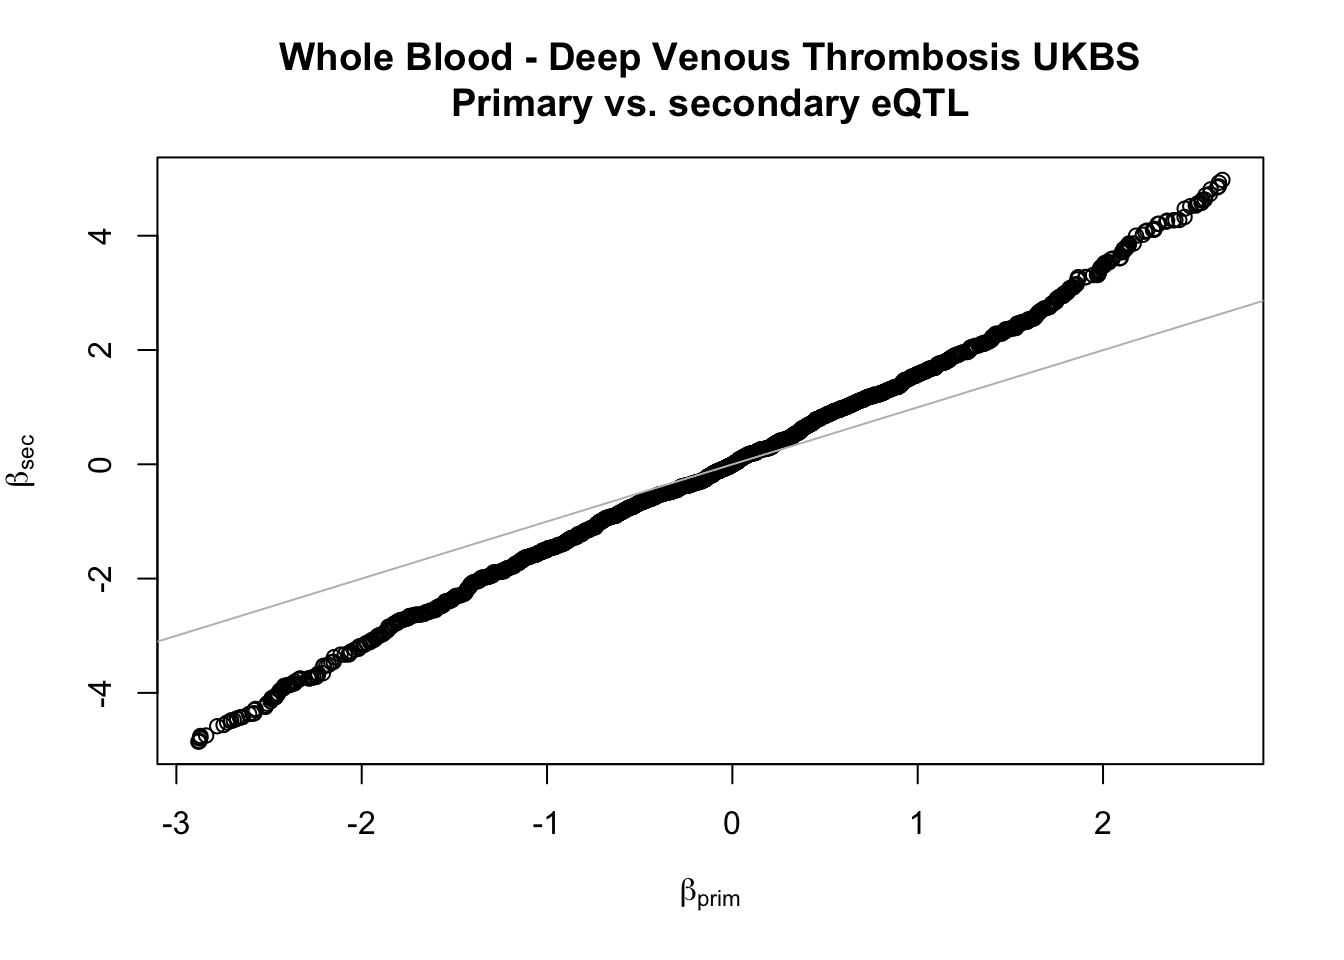
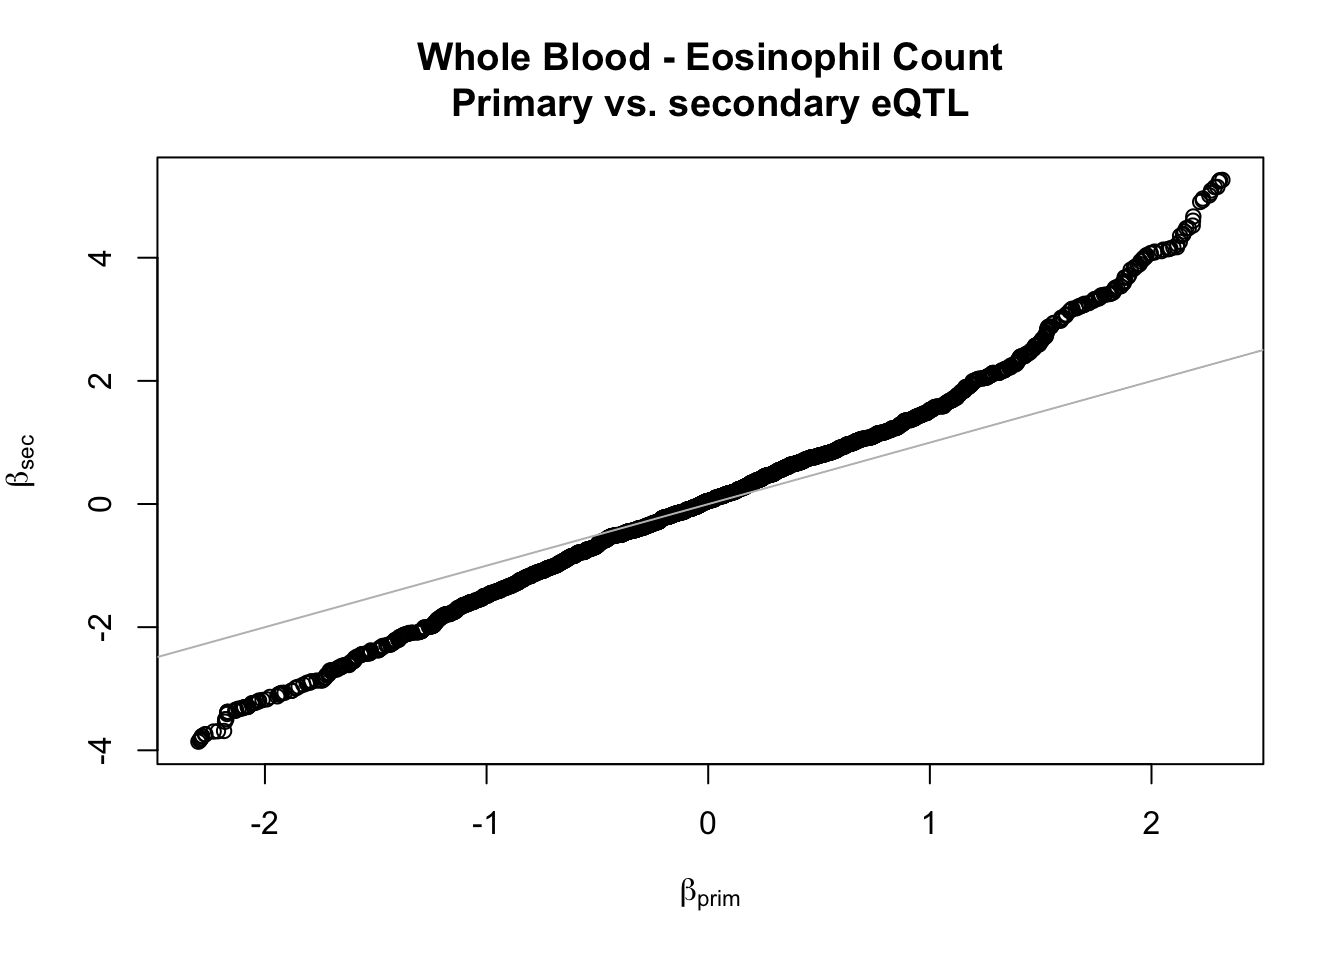
Build site.

diff --git a/docs/pvs_analysis.html b/docs/pvs_analysis.html
@@ -542,10 +542,10 @@ environment
 <div class="panel panel-default">
 <div class="panel-heading">
 <p class="panel-title">
-<a data-toggle="collapse" data-parent="#workflowr-checks" href="#strongRepositoryversionstrongahrefhttpsgithubcomzjiang2betaprimvssecanalysistree2ebde8a30cfa4c3a4bb2cfe557a1878a554d4a6ctargetblank2ebde8aa"> <span class="glyphicon glyphicon-ok text-success" aria-hidden="true"></span> <strong>Repository version:</strong> <a href="https://github.com/zjiang2/beta_prim_vs_sec_analysis/tree/2ebde8a30cfa4c3a4bb2cfe557a1878a554d4a6c" target="_blank">2ebde8a</a> </a>
+<a data-toggle="collapse" data-parent="#workflowr-checks" href="#strongRepositoryversionstrongahrefhttpsgithubcomzjiang2betaprimvssecanalysistreec9f1dcc3563639f80bb073b5a18dfe8493c8dafftargetblankc9f1dcca"> <span class="glyphicon glyphicon-ok text-success" aria-hidden="true"></span> <strong>Repository version:</strong> <a href="https://github.com/zjiang2/beta_prim_vs_sec_analysis/tree/c9f1dcc3563639f80bb073b5a18dfe8493c8daff" target="_blank">c9f1dcc</a> </a>
 </p>
 </div>
[2 lines of base64/hex data omitted]
 <div class="panel-body">
 <p>
 Great! You are using Git for version control. Tracking code development and connecting the code version to the results is critical for reproducibility. The version displayed above was the version of the Git repository at the time these results were generated. <br><br> Note that you need to be careful to ensure that all relevant files for the analysis have been committed to Git prior to generating the results (you can use <code>wflow_publish</code> or <code>wflow_git_commit</code>). workflowr only checks the R Markdown file, but you know if there are other scripts or data files that it depends on. Below is the status of the Git repository when the results were generated:
@@ -593,6 +593,40 @@ Message
 </tr>
 </thead>
 <tbody>
+<tr>
+<td>
+Rmd
+</td>
+<td>
+<a href="https://github.com/zjiang2/beta_prim_vs_sec_analysis/blob/c9f1dcc3563639f80bb073b5a18dfe8493c8daff/analysis/pvs_analysis.Rmd" target="_blank">c9f1dcc</a>
+</td>
+<td>
+zjiang2
+</td>
+<td>
+2019-08-07
+</td>
+<td>
+changed qqplot
+</td>
+</tr>
+<tr>
+<td>
+html
+</td>
+<td>
+<a href="https://rawcdn.githack.com/zjiang2/beta_prim_vs_sec_analysis/02adba91795cf7b69c2713a8a0c5a817653a9679/docs/pvs_analysis.html" target="_blank">02adba9</a>
+</td>
+<td>
+zjiang2
+</td>
+<td>
+2019-08-07
+</td>
+<td>
+Build site.
+</td>
+</tr>
 <tr>
 <td>
 Rmd
@@ -820,6 +854,17 @@ Date
 <tbody>
 <tr>
 <td>
+<a href="https://github.com/zjiang2/beta_prim_vs_sec_analysis/blob/02adba91795cf7b69c2713a8a0c5a817653a9679/docs/figure/pvs_analysis.Rmd/unnamed-chunk-1-1.png" target="_blank">02adba9</a>
+</td>
+<td>
+zjiang2
+</td>
+<td>
+2019-08-07
+</td>
+</tr>
+<tr>
+<td>
 <a href="https://github.com/zjiang2/beta_prim_vs_sec_analysis/blob/196f25d4e8c523b1479b4f4b7c06388196caa74d/docs/figure/pvs_analysis.Rmd/unnamed-chunk-1-1.png" target="_blank">196f25d</a>
 </td>
 <td>
@@ -850,7 +895,7 @@ df &lt;- readRDS(glue::glue(dapg_file_pattern))[[phenotype]]
 df[&#39;eqtl_effect_size&#39;] &lt;- df[&#39;eqtl_effect_size&#39;]/sd(df$eqtl_effect_size, na.rm=TRUE)
 df[&#39;gwas_effect_size&#39;] &lt;- df[&#39;gwas_effect_size&#39;]/sd(df$gwas_effect_size, na.rm=TRUE)
 short_phenotype &lt;- as.character(metadata[metadata$phenotype==phenotype, &quot;new_Phenotype&quot;])
-df_2_eqtl &lt;- df %&gt;%
+df_2_eqtl_eos &lt;- df %&gt;%
   group_by(tissue, phenotype, gene_id) %&gt;%
   filter(n() == 2) %&gt;%
   mutate(rank = order(order(abs(eqtl_effect_size), decreasing=TRUE))) %&gt;%
@@ -858,12 +903,12 @@ df_2_eqtl &lt;- df %&gt;%
   mutate(beta_gene=gwas_effect_size/eqtl_effect_size) %&gt;%
   select(tissue, phenotype, gene_id, rank, beta_gene) %&gt;%
   spread(key=rank, value=beta_gene)
-df_2_eqtl &lt;- df_2_eqtl[df_2_eqtl$rank1 &gt; quantile(df_2_eqtl$rank1, 0.05, na.rm = TRUE) &amp; df_2_eqtl$rank1 &lt; quantile(df_2_eqtl$rank1, 0.95, na.rm = TRUE),]
-df_2_eqtl &lt;- df_2_eqtl[df_2_eqtl$rank2 &gt; quantile(df_2_eqtl$rank2, 0.05, na.rm = TRUE) &amp; df_2_eqtl$rank2 &lt; quantile(df_2_eqtl$rank2, 0.95, na.rm = TRUE),]
+df_2_eqtl_eos &lt;- df_2_eqtl_eos[df_2_eqtl_eos$rank1 &gt; quantile(df_2_eqtl_eos$rank1, 0.05, na.rm = TRUE) &amp; df_2_eqtl_eos$rank1 &lt; quantile(df_2_eqtl_eos$rank1, 0.95, na.rm = TRUE),]
+df_2_eqtl_eos &lt;- df_2_eqtl_eos[df_2_eqtl_eos$rank2 &gt; quantile(df_2_eqtl_eos$rank2, 0.05, na.rm = TRUE) &amp; df_2_eqtl_eos$rank2 &lt; quantile(df_2_eqtl_eos$rank2, 0.95, na.rm = TRUE),]
 
-plot_title &lt;- &quot;{gsub(pattern=&#39;_&#39;, replacement=&#39; &#39;, x=tissue)} - {gsub(pattern=&#39;_&#39;, replacement=&#39; &#39;, x=short_phenotype)}\nPrimary vs. secondary eQTL&quot; %&gt;% glue::glue()
+plot_title_eos &lt;- &quot;{gsub(pattern=&#39;_&#39;, replacement=&#39; &#39;, x=tissue)} - {gsub(pattern=&#39;_&#39;, replacement=&#39; &#39;, x=short_phenotype)}\nPrimary vs. secondary eQTL&quot; %&gt;% glue::glue()
 
-pp1 &lt;- ggplot(df_2_eqtl, aes(rank1, rank2))
+pp1 &lt;- ggplot(df_2_eqtl_eos, aes(rank1, rank2))
 pp1 &lt;- pp1 + geom_point(alpha=.2, size=4)
 pp1 &lt;- pp1 + theme_bw(base_size=20)
 pp1 &lt;- pp1 + geom_abline(slope=1,intercept=0)
@@ -877,7 +922,7 @@ df &lt;- readRDS(glue::glue(dapg_file_pattern))[[phenotype]]
 df[&#39;eqtl_effect_size&#39;] &lt;- df[&#39;eqtl_effect_size&#39;]/sd(df$eqtl_effect_size, na.rm=TRUE)
 df[&#39;gwas_effect_size&#39;] &lt;- df[&#39;gwas_effect_size&#39;]/sd(df$gwas_effect_size, na.rm=TRUE)
 short_phenotype &lt;- as.character(metadata[metadata$phenotype==phenotype, &quot;new_Phenotype&quot;])
-df_2_eqtl &lt;- df %&gt;%
+df_2_eqtl_throm &lt;- df %&gt;%
   group_by(tissue, phenotype, gene_id) %&gt;%
   filter(n() == 2) %&gt;%
   mutate(rank = order(order(abs(eqtl_effect_size), decreasing=TRUE))) %&gt;%
@@ -885,12 +930,12 @@ df_2_eqtl &lt;- df %&gt;%
   mutate(beta_gene=gwas_effect_size/eqtl_effect_size) %&gt;%
   select(tissue, phenotype, gene_id, rank, beta_gene) %&gt;%
   spread(key=rank, value=beta_gene)
-df_2_eqtl &lt;- df_2_eqtl[df_2_eqtl$rank1 &gt; quantile(df_2_eqtl$rank1, 0.05, na.rm = TRUE) &amp; df_2_eqtl$rank1 &lt; quantile(df_2_eqtl$rank1, 0.95, na.rm = TRUE),]
-df_2_eqtl &lt;- df_2_eqtl[df_2_eqtl$rank2 &gt; quantile(df_2_eqtl$rank2, 0.05, na.rm = TRUE) &amp; df_2_eqtl$rank2 &lt; quantile(df_2_eqtl$rank2, 0.95, na.rm = TRUE),]
+df_2_eqtl_throm &lt;- df_2_eqtl_throm[df_2_eqtl_throm$rank1 &gt; quantile(df_2_eqtl_throm$rank1, 0.05, na.rm = TRUE) &amp; df_2_eqtl_throm$rank1 &lt; quantile(df_2_eqtl_throm$rank1, 0.95, na.rm = TRUE),]
+df_2_eqtl_throm &lt;- df_2_eqtl_throm[df_2_eqtl_throm$rank2 &gt; quantile(df_2_eqtl_throm$rank2, 0.05, na.rm = TRUE) &amp; df_2_eqtl_throm$rank2 &lt; quantile(df_2_eqtl_throm$rank2, 0.95, na.rm = TRUE),]
 
-plot_title &lt;- &quot;{gsub(pattern=&#39;_&#39;, replacement=&#39; &#39;, x=tissue)} - {gsub(pattern=&#39;_&#39;, replacement=&#39; &#39;, x=short_phenotype)}\nPrimary vs. secondary eQTL&quot; %&gt;% glue::glue()
+plot_title_throm &lt;- &quot;{gsub(pattern=&#39;_&#39;, replacement=&#39; &#39;, x=tissue)} - {gsub(pattern=&#39;_&#39;, replacement=&#39; &#39;, x=short_phenotype)}\nPrimary vs. secondary eQTL&quot; %&gt;% glue::glue()
 
-pp2 &lt;- ggplot(df_2_eqtl, aes(rank1, rank2))
+pp2 &lt;- ggplot(df_2_eqtl_throm, aes(rank1, rank2))
 pp2 &lt;- pp2 + geom_point(alpha=.2, size=4)
 pp2 &lt;- pp2 + theme_bw(base_size=20)
 pp2 &lt;- pp2 + geom_abline(slope=1,intercept=0)
@@ -923,6 +968,17 @@ Date
 </tr>
 </thead>
 <tbody>
+<tr>
+<td>
+<a href="https://github.com/zjiang2/beta_prim_vs_sec_analysis/blob/02adba91795cf7b69c2713a8a0c5a817653a9679/docs/figure/pvs_analysis.Rmd/unnamed-chunk-2-1.png" target="_blank">02adba9</a>
+</td>
+<td>
+zjiang2
+</td>
+<td>
+2019-08-07
+</td>
+</tr>
 <tr>
 <td>
 <a href="https://github.com/zjiang2/beta_prim_vs_sec_analysis/blob/196f25d4e8c523b1479b4f4b7c06388196caa74d/docs/figure/pvs_analysis.Rmd/unnamed-chunk-2-1.png" target="_blank">196f25d</a>
@@ -978,6 +1034,17 @@ Date
 <tbody>
 <tr>
 <td>
+<a href="https://github.com/zjiang2/beta_prim_vs_sec_analysis/blob/02adba91795cf7b69c2713a8a0c5a817653a9679/docs/figure/pvs_analysis.Rmd/unnamed-chunk-3-1.png" target="_blank">02adba9</a>
+</td>
+<td>
+zjiang2
+</td>
+<td>
+2019-08-07
+</td>
+</tr>
+<tr>
+<td>
 <a href="https://github.com/zjiang2/beta_prim_vs_sec_analysis/blob/196f25d4e8c523b1479b4f4b7c06388196caa74d/docs/figure/pvs_analysis.Rmd/unnamed-chunk-3-1.png" target="_blank">196f25d</a>
 </td>
 <td>
@@ -1004,7 +1071,7 @@ zjiang2
 </div>
 <p>This can be explained because <span class="math inline">\(\beta_{prim}\)</span> and <span class="math inline">\(\beta_{sec}\)</span> is determined by the SNP with the larger EQTL effect size being the primary and the smaller being the secondary and <span class="math inline">\({\beta}=\frac{GWASeffectsize}{EQTLeffectsize}\)</span></p>
 <p>Here is qqplot for Eosinophil Count:</p>
-<pre class="r"><code>qqplot(x=df_2_eqtl$rank1,y=df_2_eqtl$rank2,xlab=expression(beta[prim]),ylab=expression(beta[sec]),main=plot_title)
+<pre class="r"><code>qqplot(x=df_2_eqtl_eos$rank1,y=df_2_eqtl_eos$rank2,xlab=expression(beta[prim]),ylab=expression(beta[sec]),main=plot_title_eos)
 abline(a=0,b=1,col=&quot;grey&quot;)</code></pre>
 <p><img src="figure/pvs_analysis.Rmd/unnamed-chunk-4-1.png" width="672" style="display: block; margin: auto;" /></p>
 <p>
